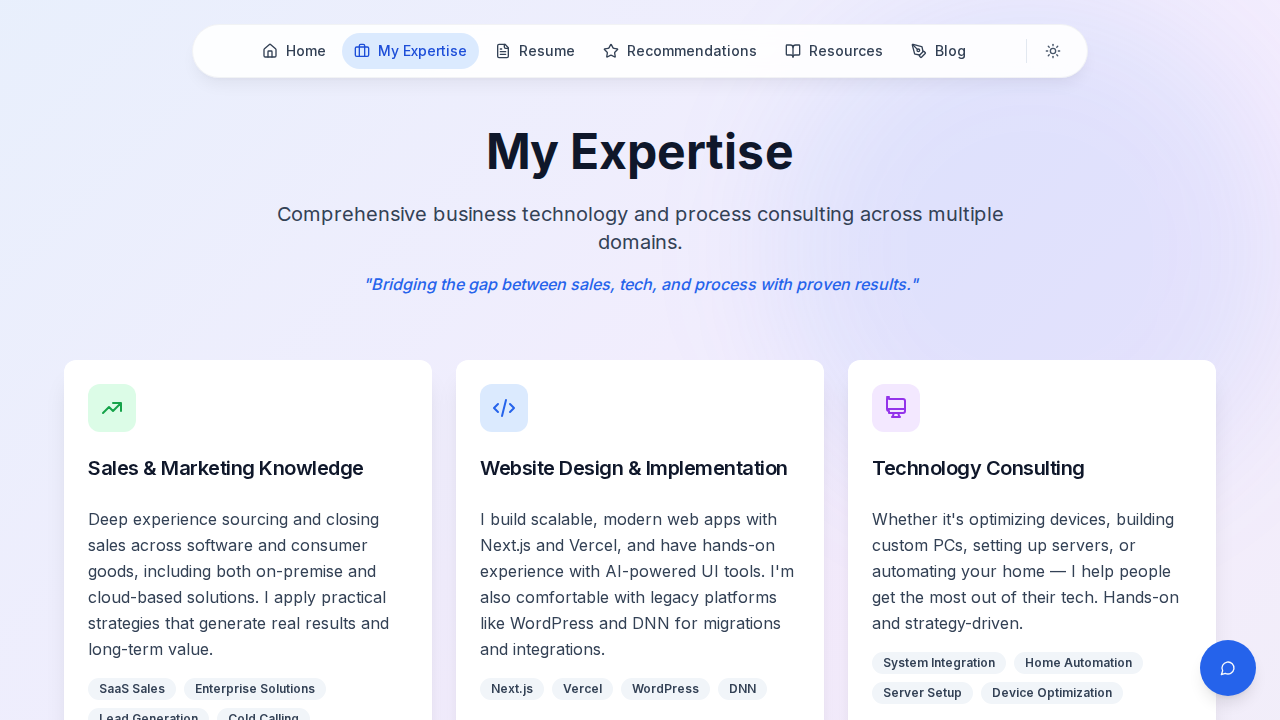
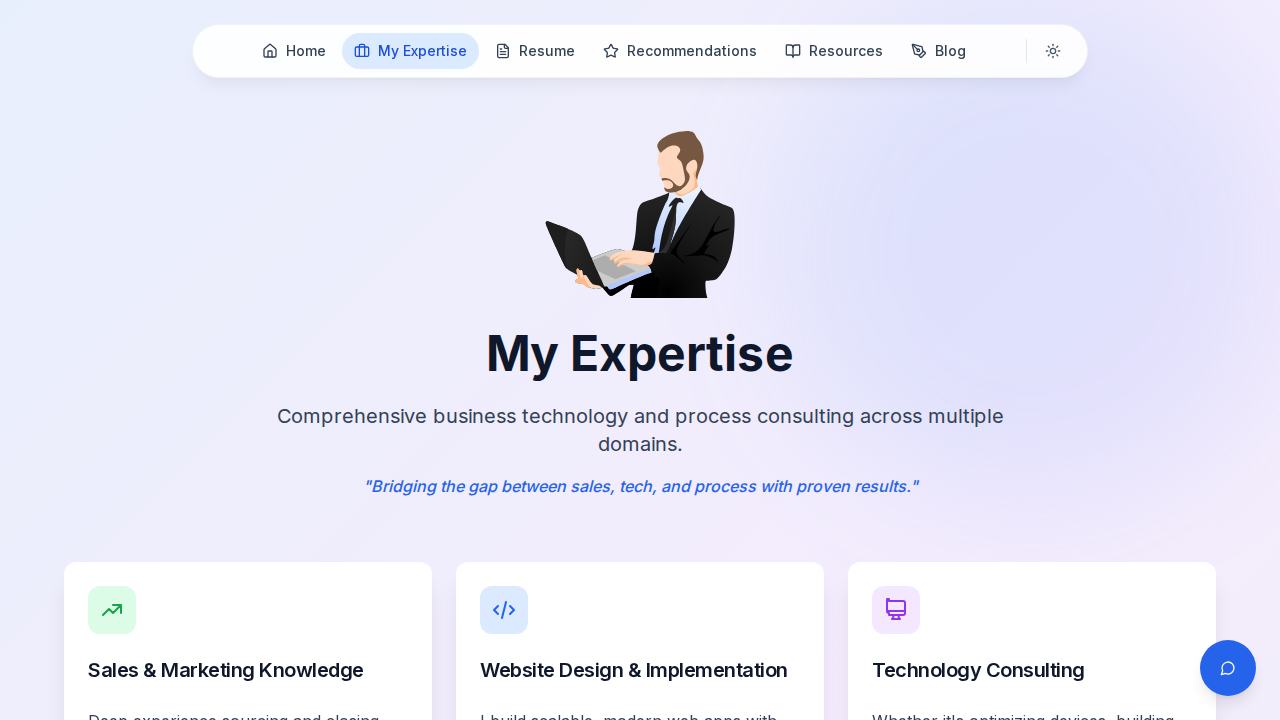
Global UI Polish: Visual Unification, Matrix Mode Red Pill, and Resources Restructuring
- **UI Unification:** Standardized all Code Editors (Translator, HA Architect) to use `bg-slate-950` to match Entity Extractor.
- **Matrix Mode:**
  - Implemented 'Red Pill' exit button (rounded-full, bg-red-600) in `ThemeToggle`.
  - Added CSS overrides to force dark themes/green borders on tools when active.
  - Resolved mobile nav overlap issues.
- **Navigation:**
  - Split `app/resources/page.tsx` into "AI Assist Tools" and "Free Utilities".
  - Renamed "Back to Arcade" buttons to "Back to Resources" on game pages.
  - Added "AI Powered App Examples" section to `/my-expertise`.
- **Fixes:**
  - Resolved `Expertise` page crash by correctly restoring `man-laptop-ani.json` and fixing imports.
  - Updated Groq models to `llama-3.1-8b-instant` across the board to mitigate rate limits and deprecation issues.
  - Fixed 'Developer Mode' overlay overlap (via removal/commenting out).
- **Verification:** Verified fixes via Playwright screenshots (`verify_ui.py`), confirming crash resolution and UI correctness.

diff --git a/app/resources/page.tsx b/app/resources/page.tsx
@@ -5,7 +5,7 @@ import { TimezoneClock } from "@/components/timezone-clock"
 import { Card, CardHeader, CardTitle, CardDescription } from "@/components/ui/card"
 import { Button } from "@/components/ui/button"
 import { GameSelector } from "@/components/game-selector"
-import { FileText, Coffee, Beer, Heart, Calculator, Mail, QrCode, Clock, DollarSign, Sparkles, Code2, Home } from "lucide-react"
+import { FileText, Coffee, Beer, Heart, Calculator, Mail, QrCode, Clock, DollarSign, Sparkles, Code2, Home, Rocket, Crown } from "lucide-react"
 import Link from "next/link"
 import { useState } from "react"
 import Lottie from "@/components/lottie-client"
@@ -53,6 +53,37 @@ export default function Resources() {
             <p className="text-lg text-blue-600 dark:text-blue-400 font-medium italic mt-4">
               "Engineer. Consultant. Tinkerer. I turn complexity into solutions."
             </p>
+          </div>
+
+          {/* Premium Resources Section */}
+          <div className="mb-16">
+            <h2 className="text-2xl font-bold text-slate-900 dark:text-slate-50 mb-8 text-center flex items-center justify-center gap-2">
+              <Crown className="w-6 h-6 text-yellow-500" />
+              Premium Resources
+            </h2>
+            <div className="max-w-4xl mx-auto">
+              <Link href="/launchpad">
+                <Card className="glass border-2 border-blue-500/20 shadow-xl hover:shadow-2xl transition-all duration-300 cursor-pointer group hover:bg-white/60 dark:hover:bg-slate-800/60 relative overflow-hidden">
+                   <div className="absolute top-0 right-0 p-2">
+                      <div className="bg-gradient-to-r from-blue-600 to-purple-600 text-white text-xs font-bold px-3 py-1 rounded-full shadow-lg">
+                        POPULAR
+                      </div>
+                   </div>
+                  <CardHeader className="flex flex-row items-center gap-6">
+                    <div className="w-16 h-16 bg-gradient-to-br from-blue-500 to-purple-600 rounded-2xl flex items-center justify-center shadow-lg group-hover:scale-110 transition-transform shrink-0">
+                      <Rocket className="w-8 h-8 text-white" />
+                    </div>
+                    <div>
+                      <CardTitle className="text-xl md:text-2xl text-slate-900 dark:text-slate-50 mb-2">Digital Identity Launchpad</CardTitle>
+                      <CardDescription className="text-base text-slate-700 dark:text-slate-300">
+                        Launch your professional presence with a fully managed, custom-built portfolio site.
+                        Includes design, development, content strategy, and SEO optimization.
+                      </CardDescription>
+                    </div>
+                  </CardHeader>
+                </Card>
+              </Link>
+            </div>
           </div>
 
           {/* AI Tools Section */}

diff --git a/app/my-expertise/page.tsx b/app/my-expertise/page.tsx
@@ -5,6 +5,8 @@ import { Card, CardContent, CardDescription, CardHeader, CardTitle } from "@/com
 import { Badge } from "@/components/ui/badge"
 import { Sparkles, Code2, Home } from "lucide-react"
 import Link from "next/link"
+import Lottie from "@/components/lottie-client"
+import manLaptopAnimation from "@/public/images/man-laptop-ani.json"
 
 export default function Expertise() {
   return (
@@ -19,6 +21,9 @@ export default function Expertise() {
       <div className="pt-32 pb-20 px-4 sm:px-6 lg:px-8 relative">
         <div className="max-w-6xl mx-auto">
           <div className="text-center mb-16">
+            <div className="w-40 sm:w-48 mx-auto mb-8">
+              <Lottie animationData={manLaptopAnimation} loop autoplay />
+            </div>
             <h1 className="text-4xl md:text-5xl font-bold text-slate-900 dark:text-slate-50 mb-6">My Expertise</h1>
             <p className="text-xl text-slate-700 dark:text-slate-300 max-w-3xl mx-auto">
               Comprehensive business technology and process consulting across multiple domains.
@@ -128,7 +133,7 @@ export default function Expertise() {
 
           {/* AI Powered App Examples Section - Moved to Bottom */}
           <div className="mb-16">
-            <h2 className="text-2xl font-bold text-slate-900 dark:text-slate-50 mb-8 text-center">Live AI Portfolio</h2>
+            <h2 className="text-2xl font-bold text-slate-900 dark:text-slate-50 mb-8 text-center">AI Powered App Examples</h2>
             <div className="grid md:grid-cols-3 gap-6">
               <Link href="/resources/tools/extractor">
                 <Card className="glass border-0 shadow-lg hover:shadow-xl hover:scale-105 transition-all duration-300 cursor-pointer h-full bg-blue-50/50 dark:bg-slate-900/50">

diff --git a/components/theme-toggle.tsx b/components/theme-toggle.tsx
@@ -30,7 +30,16 @@ export function ThemeToggle() {
 
   // If in Matrix Mode, the button should allow exiting matrix mode
   if (isMatrixMode) {
-    return null
+    return (
+      <Button
+        variant="default"
+        size="sm"
+        onClick={toggleMatrixMode}
+        className="bg-red-600 hover:bg-red-700 text-white rounded-full font-bold shadow-[0_0_10px_rgba(220,38,38,0.7)] animate-pulse px-4"
+      >
+        EXIT
+      </Button>
+    )
   }
 
   return (

diff --git a/app/globals.css b/app/globals.css
@@ -133,4 +133,12 @@ body {
   .matrix-mode * {
     font-family: 'Courier New', monospace !important;
   }
+
+  /* Matrix Mode Overrides for Tool Editors */
+  .matrix-mode .bg-slate-950,
+  .matrix-mode .dark\:bg-slate-950 {
+    background-color: #000000 !important;
+    border: 1px solid #00ff00 !important;
+    box-shadow: 0 0 10px rgba(0, 255, 0, 0.2);
+  }
 }
